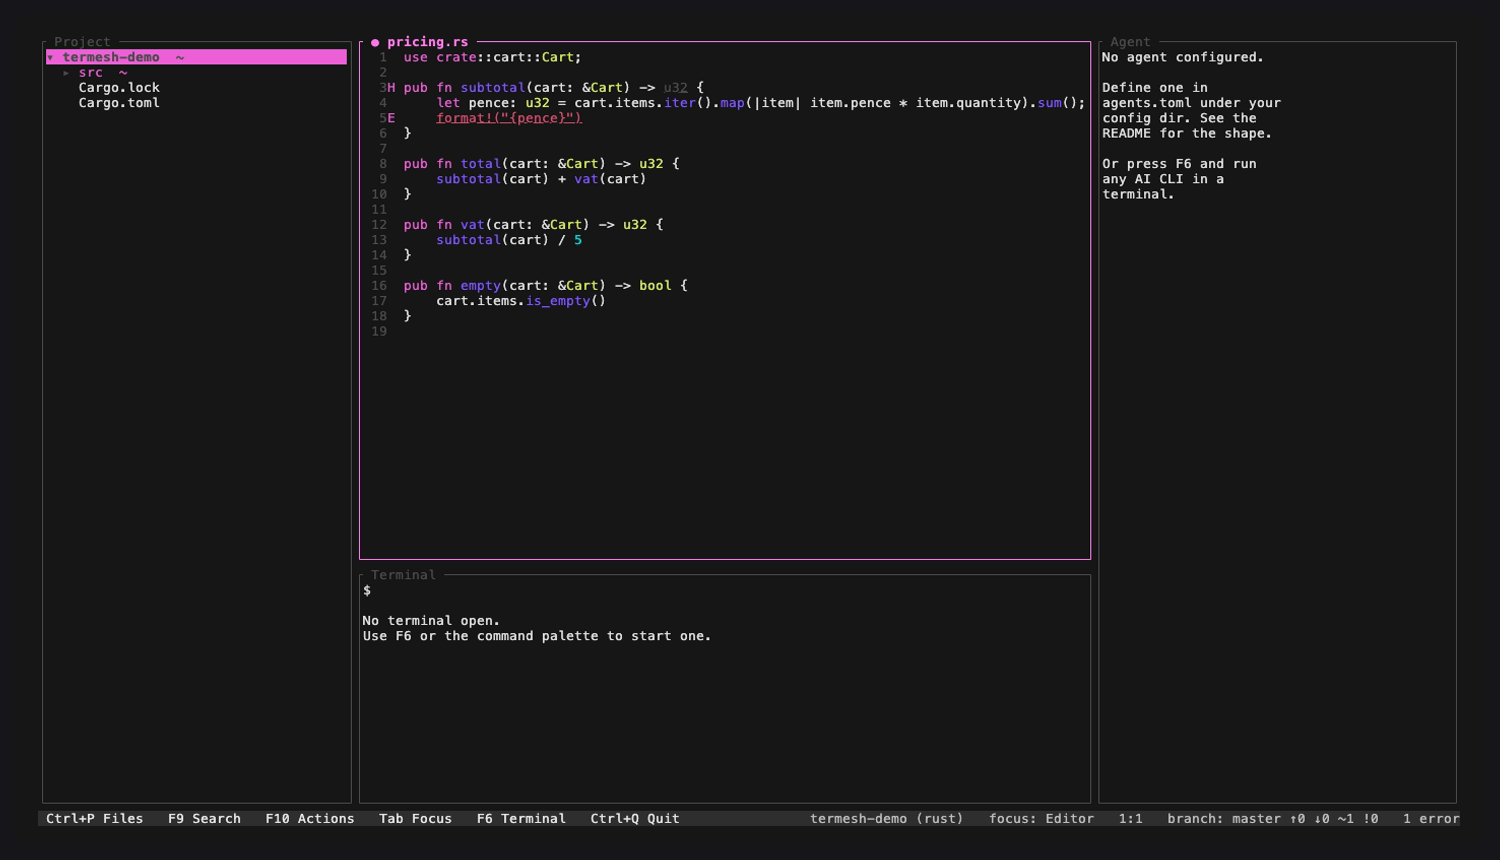
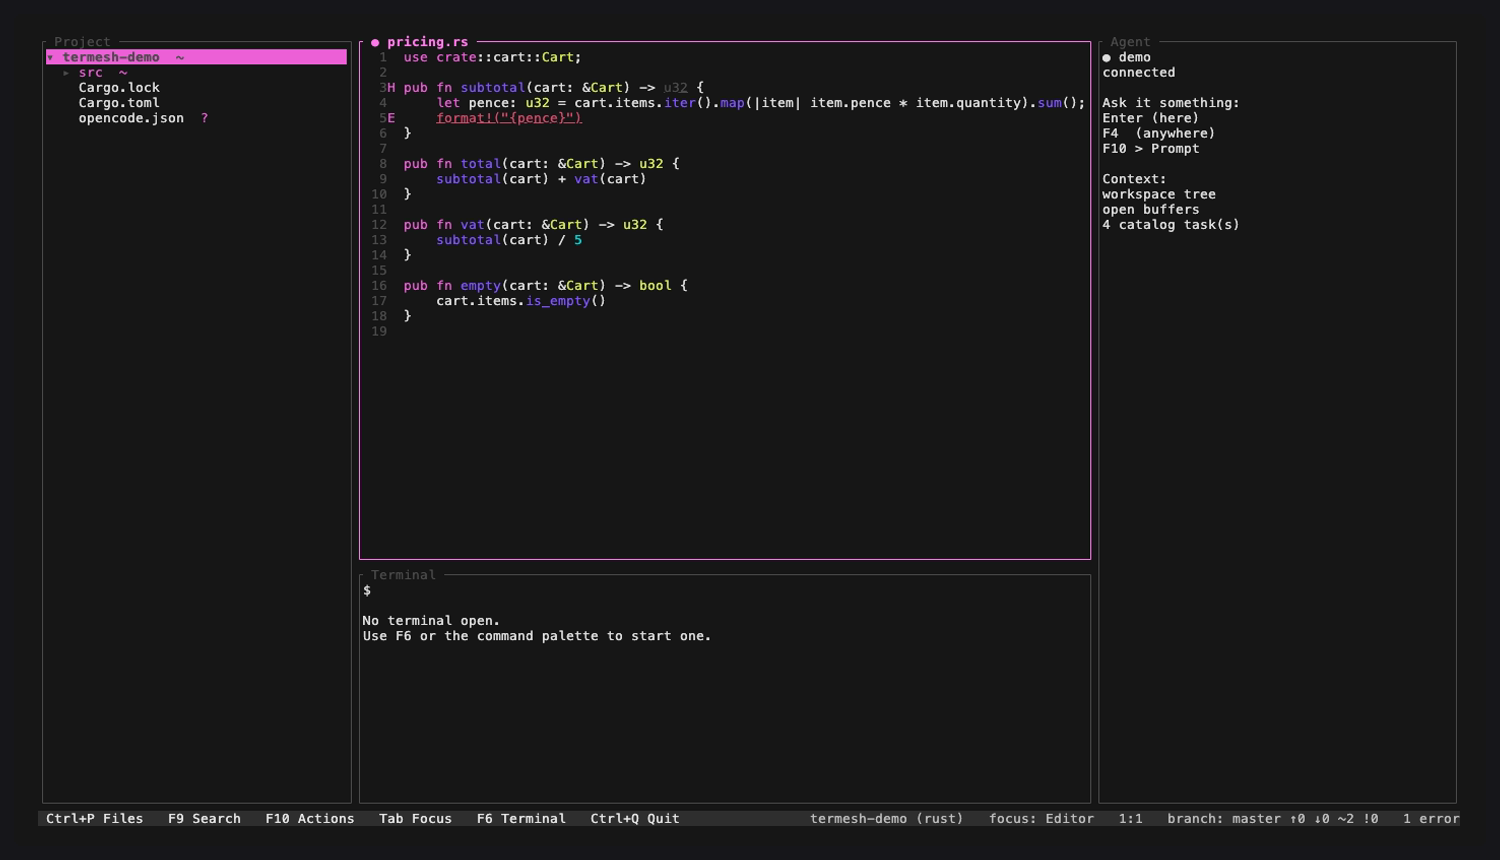
feat: record the review loop, and fix what recording it exposed
The demo has never shown the thing this project exists for, because until
yesterday no agent would let it: they edited first and reported afterwards.
Now one will, so the recording drives opencode with `permission.edit: "ask"`,
asks for a change, rejects it, and asks again and takes it. The rejected file
is byte-identical afterwards; the accepted one is not. Nothing is staged for
the camera.

Recording it found three things that unit tests could not.

An edit described twice was reviewed twice. opencode sends the change as the
permission that gates it *and* as a tool-call update narrating it, and the
second arrived as an ordinary proposal — one the client would apply itself,
writing a change the agent was already writing. The scripted double sends one
or the other, never both, which is why this needed a real agent to surface.

`starting an agent session…` never went away. The status line is cleared when
a command is dispatched and an agent event is not a command, so the message sat
there describing a state that had ended twenty minutes earlier.

And the recorder only built when the binary was missing, so every run after the
first recorded whatever was compiled last. Two takes went by before I noticed I
was filming yesterday's build — which is the worst failure this script has,
because a stale recording looks exactly as convincing as a current one. It
builds every time now.

Changed region(s): [[0.736, 0.0605, 0.8587, 0.2721], [0.0613, 0.1209, 0.1227, 0.1512]]

diff --git a/crates/app/src/main.rs b/crates/app/src/main.rs
@@ -7333,6 +7333,59 @@ mod agent_tests {
         );
     }
 
+    /// opencode sends the same edit twice: as the permission that gates it, and again as a
+    /// `tool_call_update` describing the work. Captured from the wire. The second copy is an
+    /// ordinary proposal, so accepting it would make the client write a change the agent is
+    /// already writing — two reviews for one edit, one of them dangerous (ADR-0016 §2).
+    #[test]
+    fn an_edit_described_twice_is_reviewed_once() {
+        let fs = workspace();
+        let mut m = opened(&fs);
+        let mut agent = ScriptedAgent::new().with_turn(vec![ScriptedUpdate::EditPermission {
+            summary: "Edit main.rs".into(),
+            path: "/proj/src/main.rs".into(),
+            old_text: ORIGINAL.into(),
+            new_text: IMPROVED.into(),
+        }]);
+        run_turn(&mut m, &mut agent);
+
+        // The agent now narrates the same change through the ordinary proposal path.
+        m.on_agent_event(AgentEvent::ProposedEdit {
+            session: SessionId::new(1),
+            proposal: termesh_core::ProposalId::new(9_001),
+            path: "/proj/src/main.rs".into(),
+            old_text: Some(ORIGINAL.into()),
+            new_text: IMPROVED.into(),
+        });
+
+        assert_eq!(m.agent.as_ref().expect("session").proposals.len(), 1, "one edit, one review");
+        let frame = view::snapshot(&mut m, 96, 28);
+        assert_eq!(frame.matches("[a]ccept").count(), 1, "and one place to answer it:\n{frame}");
+    }
+
+    /// The status line is cleared by `dispatch`, which an agent event does not go through,
+    /// so this message used to sit there for the rest of the run.
+    #[test]
+    fn the_starting_a_session_message_goes_away_when_the_session_starts() {
+        let fs = workspace();
+        let mut m = opened(&fs);
+        m.agent_name = Some("scripted".into());
+
+        m.dispatch(Command::Action(Action::AgentPrompt));
+        for c in "hello".chars() {
+            input::on_chord(&mut m, KeyChord::plain(Key::Char(c)));
+        }
+        input::on_chord(&mut m, KeyChord::plain(Key::Enter));
+        assert_eq!(
+            m.notification.as_deref(),
+            Some("starting an agent session\u{2026}"),
+            "it says what it is doing"
+        );
+
+        m.on_agent_event(AgentEvent::SessionStarted { session: SessionId::new(1) });
+        assert_eq!(m.notification, None, "and stops saying it once done");
+    }
+
     /// Codex's shape: the permission carries only the lines it is touching. Deriving hunks
     /// from that as though it were the whole document proposes replacing the file with two
     /// lines — which renders as a tidy diff and destroys the file on accept (ADR-0016 §1a).
@@ -7374,6 +7427,11 @@ mod agent_tests {
 
         let frame = view::snapshot(&mut m, 96, 28);
         assert!(frame.contains("[a]ccept"), "answered as a diff, not as a command:\n{frame}");
+        assert_eq!(
+            frame.matches("[a]ccept").count(),
+            1,
+            "asked to decide exactly once, not twice:\n{frame}"
+        );
         assert!(!frame.contains("allow once"), "no command vocabulary on an edit:\n{frame}");
         assert_eq!(m.agent.as_ref().expect("session").proposals.len(), 1, "one proposal");
     }

diff --git a/crates/app/src/model.rs b/crates/app/src/model.rs
@@ -388,6 +388,9 @@ pub enum PermissionOrigin {
 }
 
 /// A tool call the agent wants to run, shown before it runs (ARCHITECTURE.md §9.4).
+/// Shown while a session is opening, and cleared the moment one does.
+const STARTING_SESSION: &str = "starting an agent session\u{2026}";
+
 pub struct PendingPermission {
     pub origin: PermissionOrigin,
     pub summary: String,
@@ -3373,6 +3376,12 @@ impl Model {
                 }
             }
             AgentEvent::SessionStarted { session } => {
+                // The status line is cleared by `dispatch`, and an agent event does not go
+                // through it — so "starting an agent session…" outlived the starting and sat
+                // there for the rest of the run, describing a state that had ended.
+                if self.notification.as_deref() == Some(STARTING_SESSION) {
+                    self.notification = None;
+                }
                 if let Some(previous) = self.agent.as_ref().map(|agent| agent.id) {
                     self.cancel_agent_terminals(previous, "agent session replaced");
                 }
@@ -4334,6 +4343,28 @@ impl Model {
         old_text: Option<String>,
         new_text: String,
     ) {
+        // The same edit can arrive twice: once as the permission that gates it, and again
+        // as a `tool_call_update` describing what the agent is doing. Reviewing it twice is
+        // not just noise — the second copy is an ordinary proposal, so accepting it would
+        // make *us* write a change the agent is already writing (ADR-0016 §2).
+        let gated_here = self
+            .agent
+            .as_ref()
+            .and_then(|agent| agent.pending_permission.as_ref())
+            .and_then(|pending| pending.review)
+            .and_then(|reviewed| {
+                self.agent
+                    .as_ref()?
+                    .proposals
+                    .iter()
+                    .find(|proposal| proposal.id == reviewed)
+                    .map(|proposal| proposal.path == path)
+            })
+            .unwrap_or(false);
+        if gated_here {
+            return;
+        }
+
         let Some(index) = self.buffers.iter().position(|b| b.path() == Some(path.as_path())) else {
             // A proposal for a file we have not opened. Opening it is the right move —
             // review has to happen somewhere the human can see it — but that is a read
@@ -5280,7 +5311,7 @@ impl Model {
                 None => {
                     self.pending_prompt = Some(name);
                     self.new_agent_session();
-                    self.notification = Some("starting an agent session\u{2026}".into());
+                    self.notification = Some(STARTING_SESSION.into());
                 }
             }
             return;

diff --git a/crates/app/src/view.rs b/crates/app/src/view.rs
@@ -791,12 +791,16 @@ fn agent_body(model: &Model) -> String {
         }
     }
 
+    // The proposal a permission is holding open is already introduced above, with its own
+    // accept/reject line. Printing a second one here asks the reader to decide twice.
+    let gated = agent.pending_permission.as_ref().and_then(|pending| pending.review);
     for proposal in &agent.proposals {
         let clean = proposal.applicable().count();
         let conflicts = proposal.hunks.len() - clean;
         let note = if conflicts > 0 { format!(", {conflicts} conflicted") } else { String::new() };
+        let keys = if gated == Some(proposal.id) { "" } else { "\u{258E} [a]ccept  [r]eject\n" };
         out.push_str(&format!(
-            "\u{258E} Proposed {} edit(s){note}\n\u{258E} in {}\n\u{258E} [a]ccept  [r]eject\n\n",
+            "\u{258E} Proposed {} edit(s){note}\n\u{258E} in {}\n{keys}\n",
             proposal.hunks.len(),
             proposal.path.file_name().unwrap_or_default().to_string_lossy(),
         ));

diff --git a/CHANGELOG.md b/CHANGELOG.md
@@ -20,6 +20,16 @@ described in [docs/configuration.md](docs/configuration.md).
   deletes the rest on accept. A fragment that matches nowhere, or in more than one place, is
   reported as such instead of being placed at a guessed offset (ADR-0016 §1a).
 
+### Fixed
+
+- An edit an agent described twice — once as the permission gating it, once as a tool-call
+  update narrating it — produced two reviews for one change. The second was an ordinary
+  proposal, so accepting it would have made termesh write a file the agent was already writing.
+  opencode does exactly this; one edit is now one review.
+- `starting an agent session…` stayed in the status bar for the rest of the run. The line is
+  cleared when a command is dispatched, and an agent event is not a command, so the message
+  outlived the state it described.
+
 ## 0.1.4 — 2026-08-17
 
 ### Added

diff --git a/README.md b/README.md
@@ -58,6 +58,12 @@ count in the status bar](site/img/diagnostics.png)
 ![the Git Changes overlay listing a modified file, with stage, commit and branch on the
 footer](site/img/git.png)
 
+![an agent asking permission to edit pricing.rs, the proposed line marked in the editor
+gutter, and accept/reject in the agent pane](site/img/agent.png)
+
+That last one is the whole point: the agent has asked, the change is marked in the gutter,
+and the file on disk has not been touched. `r` and it never is.
+
 Those are real screenshots, and so is the recording above — all three are produced by
 `./scripts/record-demo.sh`, which builds a throwaway project and drives the editor with real
 key chords, so they can be regenerated rather than going stale.
